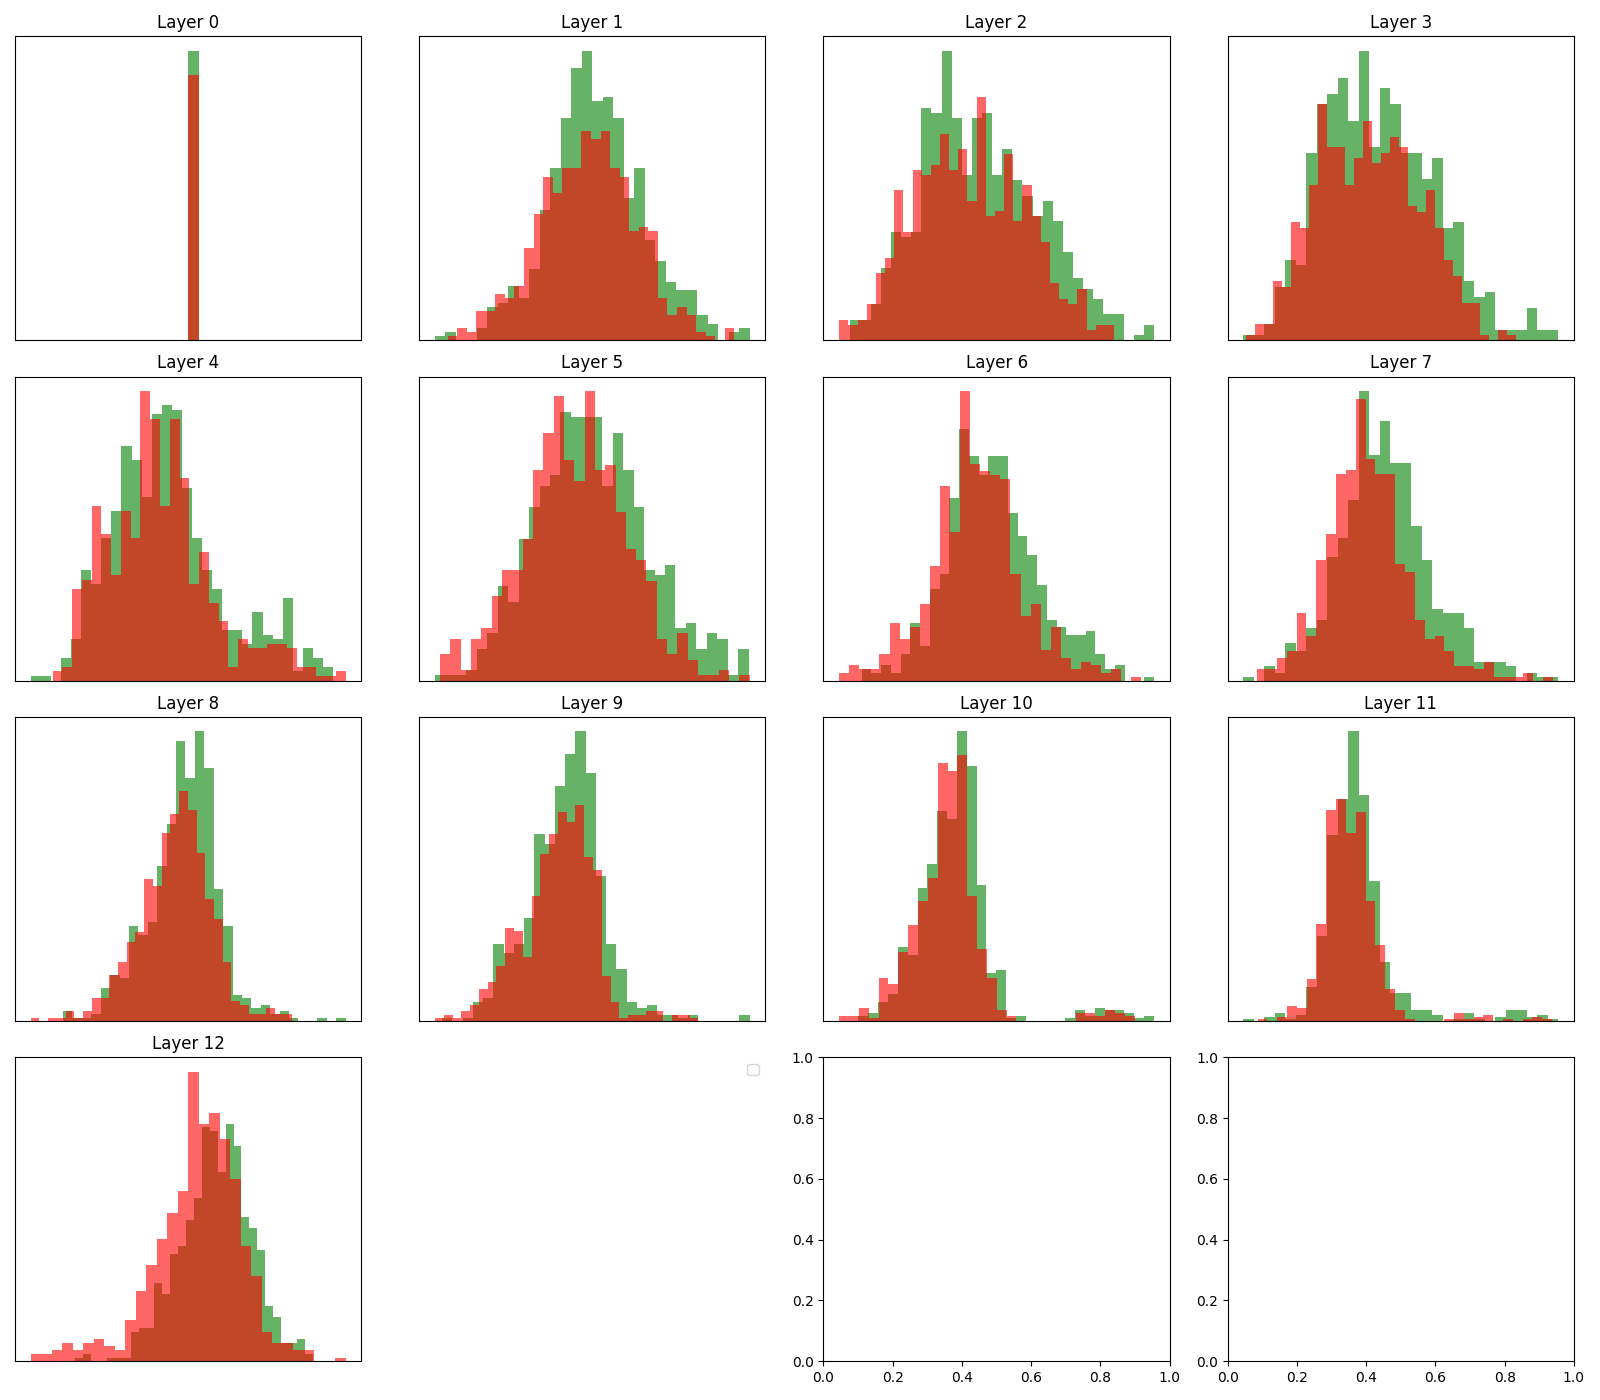
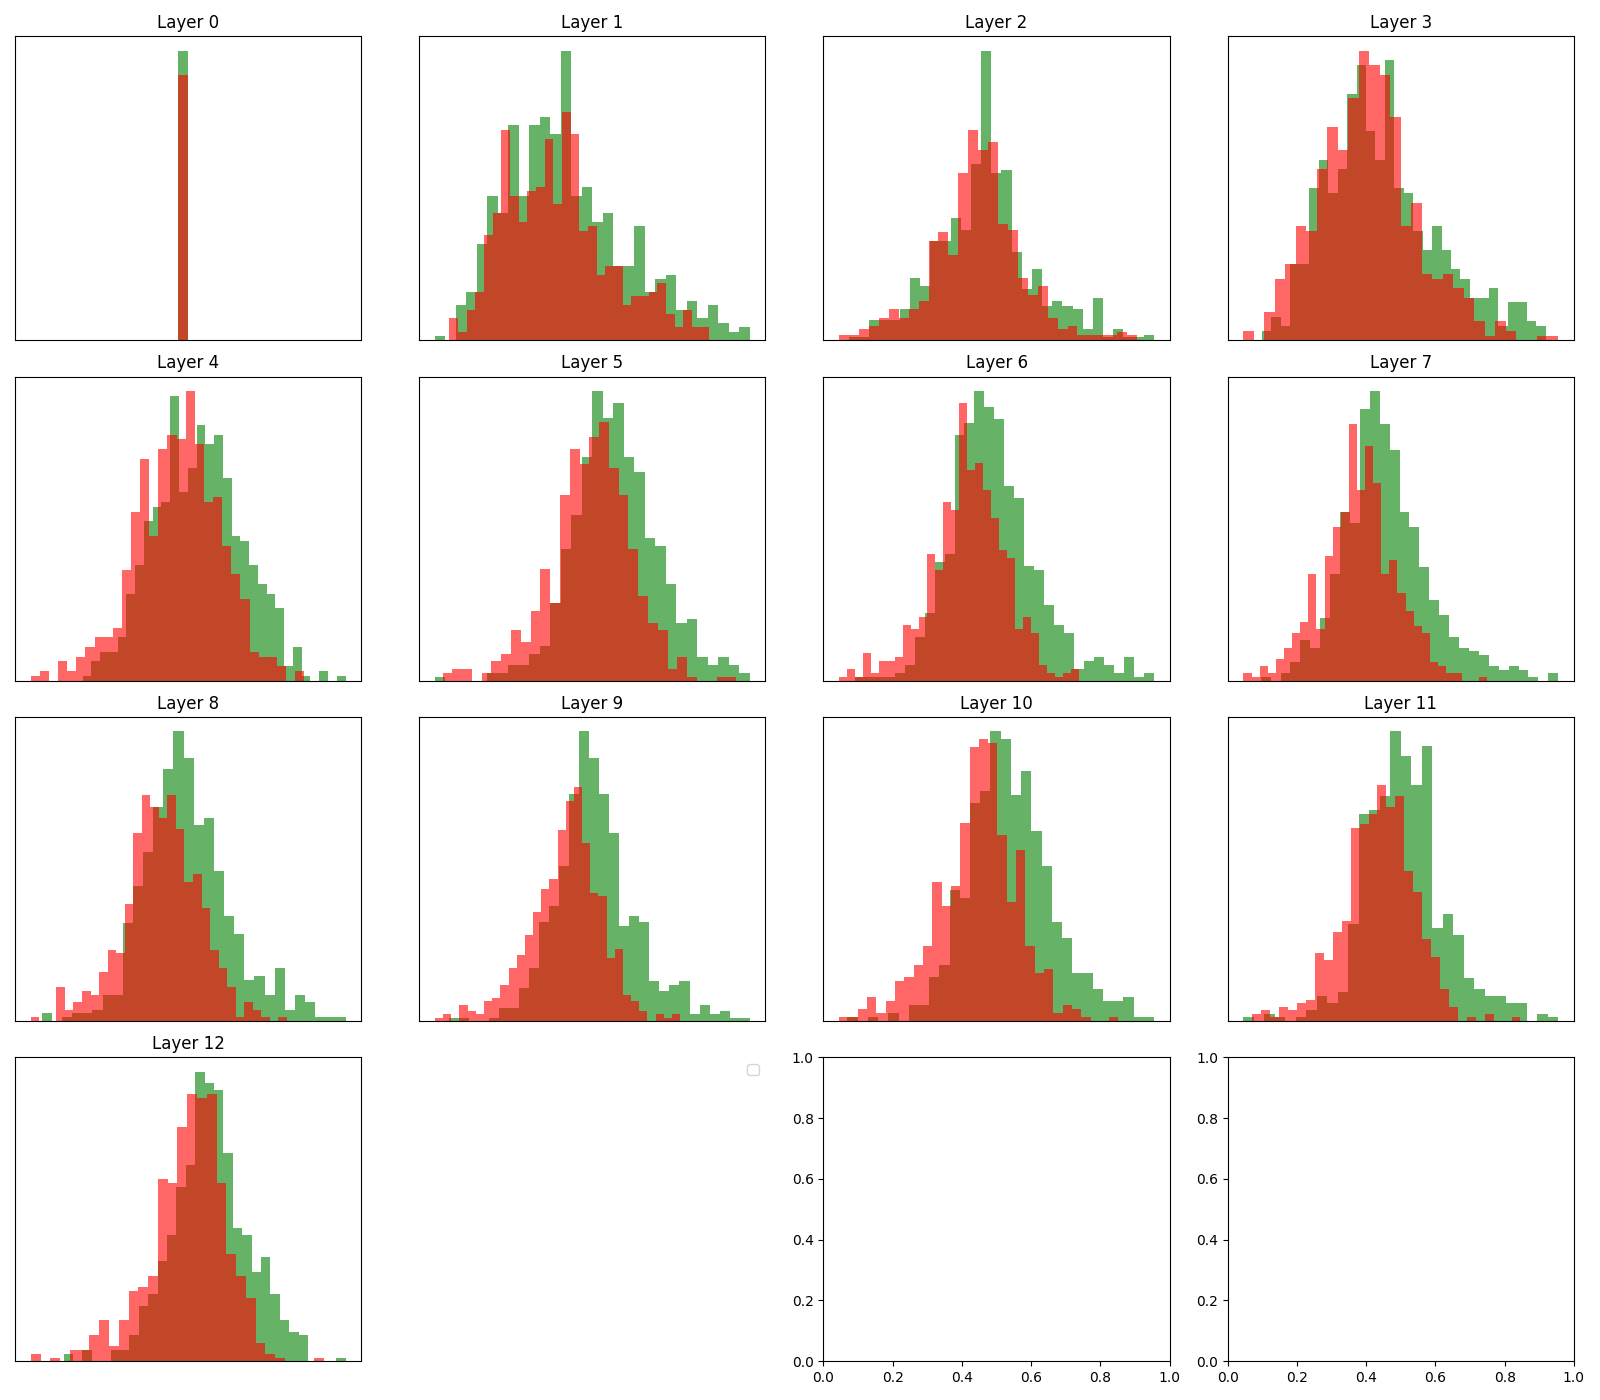
Generalizes

diff --git a/20250422 Toy Model/main.py b/20250422 Toy Model/main.py
@@ -11,12 +11,12 @@
 import math
 from sklearn.manifold import TSNE
 from sklearn.metrics import confusion_matrix, ConfusionMatrixDisplay
+from transformers import AutoModel, AutoModelForCausalLM, AutoTokenizer
 from sklearn.decomposition import PCA
 import torch
 import torch.nn as nn
 import torch.optim as optim
 import matplotlib.pyplot as plt
-from transformers import BertTokenizer, BertModel
 from transformers import AutoTokenizer, AutoModel
 from datasets import load_dataset
 from sklearn.model_selection import train_test_split
@@ -29,8 +29,11 @@ import random
 dataset_source = "truefalse"
 
 # ✅ Model config
-model_name = "bert-large-uncased"  # or "bert-base-uncased"
-model_name = 'roberta-base'
+model_name = "bert-base-uncased" 
+# model_name = "bert-large-uncased" 
+# model_name = 'roberta-base'
+# model_name = 'gpt2'
+model_name = 'meta-llama/Llama-3.2-1B-Instruct'
 
 use_control_tasks = True
 
@@ -38,17 +41,32 @@ use_control_tasks = True
 # ✅ Device setup (MPS on Mac)
 # --------------------
 device = torch.device("mps" if torch.backends.mps.is_available() else "cpu")
-print(f"🖥  Using device: {device}")
+print(f"🖥  Using {device}")
 
 # --------------------
-# ✅ Load BERT
+# ✅ Load model and tokenizer
 # --------------------
-print("📦 Loading model and tokenizer...")
-tokenizer = AutoTokenizer.from_pretrained(model_name)
-model = AutoModel.from_pretrained(
-    model_name, output_hidden_states=True).to(device)
-model.eval()
-print("✅ Model is ready.")
+
+
+def load_model_and_tokenizer(model_name):
+    if "gpt" in model_name or "llama" in model_name.lower():
+        model_class = AutoModelForCausalLM
+    else:
+        model_class = AutoModel
+
+    tokenizer = AutoTokenizer.from_pretrained(model_name)
+
+    if tokenizer.pad_token is None:
+        tokenizer.pad_token = tokenizer.eos_token
+    tokenizer.padding_side = "left" if "gpt" in model_name.lower() or "llama" in model_name.lower() else "right"
+
+    model = model_class.from_pretrained(model_name, output_hidden_states=True)
+    return tokenizer, model
+
+tokenizer, model=load_model_and_tokenizer(model_name)
+model.to(device).eval()
+
+print(f"✅ {model_name.upper()} is ready.")
 
 # --------------------
 # ✅ Load dataset
@@ -173,9 +191,11 @@ def get_hidden_states(examples, return_layer=None):
             outputs = model(**inputs)
             hidden_states = outputs.hidden_states
 
-        cls_embeddings = torch.stack([layer[:, 0, :]
-                                     # [13, 1, 768]
-                                      for layer in hidden_states])
+        if "gpt" in model_name.lower() or "llama" in model_name.lower():
+            cls_embeddings = torch.stack([layer[:, -1, :] for layer in hidden_states])
+        else:
+            cls_embeddings = torch.stack([layer[:, 0, :] for layer in hidden_states])
+
         all_hidden_states.append(cls_embeddings.squeeze(1))  # [13, 768]
         labels.append(ex['label'])
 
